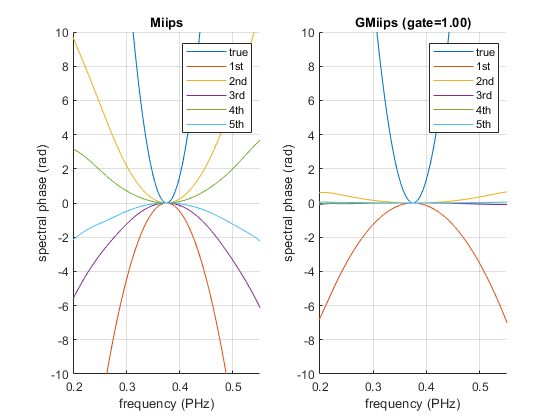
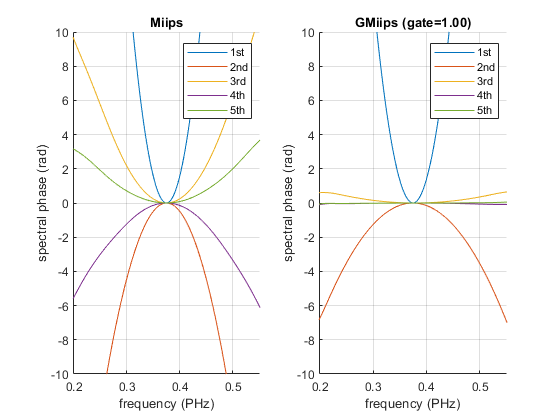
example files 2nd order iterative small fix

diff --git a/manual/example_files/Gmiips_2nd_order_iterative.html b/manual/example_files/Gmiips_2nd_order_iterative.html
@@ -97,11 +97,10 @@ ax(2) = subplot(1,2,2);
 <span class="keyword">end</span>
 
 <span class="keyword">for</span> i = 1 : 2
-  <span class="keyword">for</span> iteration = 1 : 5
+  <span class="keyword">for</span> iteration = 1 : 4
     m{i}.newIteration();
     plot(ax(i), m{i}.frequencyArray, m{i}.retrievedPhase);
   <span class="keyword">end</span>
-
   legend(ax(i), <span class="string">'true'</span>, <span class="string">'1st'</span>, <span class="string">'2nd'</span>, <span class="string">'3rd'</span>, <span class="string">'4th'</span>, <span class="string">'5th'</span>);
 <span class="keyword">end</span>
 </pre><img vspace="5" hspace="5" src="Gmiips_2nd_order_iterative_01.png" alt=""> <p>The results of single iterations are available in the 'iterations' property. If everything goes well, the retrieved phase should decrease at each iteration.</p><pre class="codeinput">figure();
@@ -115,7 +114,7 @@ ax(2) = subplot(1,2,2);
   <span class="keyword">end</span>
   xlim(ax(i), [-2, 2] * p.bandwidth + p.centralFrequency)
   ylim(ax(i), [-10, 10]);
-  legend(ax(i), <span class="string">'true'</span>, <span class="string">'1st'</span>, <span class="string">'2nd'</span>, <span class="string">'3rd'</span>, <span class="string">'4th'</span>, <span class="string">'5th'</span>);
+  legend(ax(i), <span class="string">'1st'</span>, <span class="string">'2nd'</span>, <span class="string">'3rd'</span>, <span class="string">'4th'</span>, <span class="string">'5th'</span>);
   xlabel(ax(i), sprintf(<span class="string">'frequency (%s)'</span>, p.frequencyUnits));
   ylabel(ax(i), <span class="string">'spectral phase (rad)'</span>);
   title(ax(i), ax_title{i});
@@ -168,11 +167,10 @@ for i = 1 : 2
 end
 
 for i = 1 : 2
-  for iteration = 1 : 5
+  for iteration = 1 : 4
     m{i}.newIteration();
     plot(ax(i), m{i}.frequencyArray, m{i}.retrievedPhase);
   end
-  
   legend(ax(i), 'true', '1st', '2nd', '3rd', '4th', '5th');
 end
 
@@ -191,7 +189,7 @@ for i = 1 : 2
   end
   xlim(ax(i), [-2, 2] * p.bandwidth + p.centralFrequency)
   ylim(ax(i), [-10, 10]);
-  legend(ax(i), 'true', '1st', '2nd', '3rd', '4th', '5th');
+  legend(ax(i), '1st', '2nd', '3rd', '4th', '5th');
   xlabel(ax(i), sprintf('frequency (%s)', p.frequencyUnits));
   ylabel(ax(i), 'spectral phase (rad)');
   title(ax(i), ax_title{i});

diff --git a/examples/Gmiips_2nd_order_iterative.m b/examples/Gmiips_2nd_order_iterative.m
@@ -42,11 +42,10 @@ for i = 1 : 2
 end
 
 for i = 1 : 2
-  for iteration = 1 : 5
+  for iteration = 1 : 4
     m{i}.newIteration();
     plot(ax(i), m{i}.frequencyArray, m{i}.retrievedPhase);
   end
-  
   legend(ax(i), 'true', '1st', '2nd', '3rd', '4th', '5th');
 end
 
@@ -65,7 +64,7 @@ for i = 1 : 2
   end
   xlim(ax(i), [-2, 2] * p.bandwidth + p.centralFrequency)
   ylim(ax(i), [-10, 10]);
-  legend(ax(i), 'true', '1st', '2nd', '3rd', '4th', '5th');
+  legend(ax(i), '1st', '2nd', '3rd', '4th', '5th');
   xlabel(ax(i), sprintf('frequency (%s)', p.frequencyUnits));
   ylabel(ax(i), 'spectral phase (rad)');
   title(ax(i), ax_title{i});
